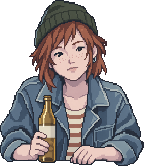
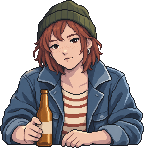
leaning staging (components): Assets.STAGING, Leaners slot above the counter, Portrait.place_on; Lena r6 = neutral identity (sprite ends at the forearm line)

diff --git a/docs/03-build-log.md b/docs/03-build-log.md
@@ -1148,3 +1148,4 @@ conversation is open — and the log rows now carry `queue` and `talking`.
 - **01:55 — v8 verdict 73** (composition 74 ↑ · palette 61 ↓ · pixel 73 · character 71 · ui 73 · Berlin 87). "Make Lena visibly lean on the counter; her arms disappear behind its back edge" — the behind-the-counter layering cannot show forearms ON the laminate. Decision: a LEANING staging — the sprite ends at the forearms' underside (the generator paints only the key colour below the counter line, so `trim` cuts there) and is layered IN FRONT of the counter with the forearm line a few px onto the laminate. Lena r6 generating that way, with warm ivory/amber highlight clusters (the judge: "make the warm pool visible through surface shading rather than a translucent wash"). Also queued (after the fleet releases night.gd): hide the Mate card during a conversation, quieter panel border, HUD inset.
 - **01:58 — backdrop r6 promoted: astra 77** (r5 was 74; composition 81 · palette 73 · pixel 75 · Berlin 87). Stock variety, warm centre zone, OPEN neon, stickers, graffiti, bench, wet pavement, Pfand crate, sticker-covered ice-cream freezer. Remaining notes: the warm pool still too weak ("predominantly steel-blue"), tobacco wall still rows of rectangles, fixtures flat, pavement streaks too busy. Composed v9 (backdrop r6 + counter r7 + Lena r5) judging.
 - **01:59 — v9 (backdrop r6 composed) 70:** composition 72 · palette 61 · pixel 73 · **character 63** · ui 76 · Berlin 88. Lena r5 keeps losing fidelity points ("upright bust cut off by the counter", indistinct eyes) and the overlay wash reads as "washed-out grey" — the judge wants localized amber clusters in the ART, not a translucent pool. Pool alpha cut to 0.08 (edges darken to 0.34). Waiting on Lena r6 (sprite ends at the forearm line, distinct eye clusters, warm highlight clusters) + the leaning staging patch (front layer) once the fleet releases night.gd.
+- **02:02 — leaning staging built:** `Assets.STAGING` (mirrors `stage` in the spec), `SceneLayers.mount(node, in_front)` + a `Leaners` slot above the counter, `Portrait.place_on()` (forearm line `LEAN_ONTO` = 6 px onto the laminate), `Portrait.staging()`. Lena r6 generated with the key colour below the counter line → the snap ends at the forearms (144×148, forearms span the full width in the last rows); promoted as the neutral identity; warm/upset r6 regenerating from it. The Night-scene seat switch waits for the fleet to release `night.gd`.

diff --git a/docs/02-art-pipeline.md b/docs/02-art-pipeline.md
@@ -45,6 +45,7 @@ shop behind. Proportions in base pixels (480×270), read straight off the refere
 | *(2026-09-13)* | | The counter layer hangs `Palette.COUNTER_LIFT` (20 px) above the bottom of the frame: the r6 strip carries 37 rows of wall above its laminate edge, and flush-with-the-bottom hid the countertop under the dialogue panel. Its lowest rows are under the panel anyway. |
 | Counter objects | cup at 30 % x, phone at 50 % x, sitting *on* the edge | cup x≈145, phone x≈240, both just below the edge |
 | Character bust | centred at 52 % x; hair top at ~10 %; shoulders ~30 % wide; cut by the counter at the chest/hip line | centre **x≈250**, hair top **y≈24–30**, ~145 px wide; the portrait's bottom 25–35 px sit *behind* the counter layer |
+| *(2026-09-13, staging)* | | **Two stagings** (`stage` in the spec, `Assets.STAGING`): `behind` = the classic seat, the counter hides the lower body (`Portrait.place_behind`, `PORTRAIT_OVERLAP` 30); `leaning` = the sprite ENDS at the forearms' underside (the generator paints only the key colour below the counter line, so `trim` cuts there) and is layered IN FRONT of the counter (`SceneLayers` slot `Leaners`) with that line `LEAN_ONTO` (6) px onto the laminate — the customer visibly leans on the counter. Five verdicts in a row asked for it; Lena is the first leaner (r6). |
 | *(2026-09-13)* | | **Busts are snapped to 144×174** (the ~145 px above). They were 190×230 until the judge scored the composed frame: "an enlarged portrait behind a narrow ledge" — the head was 36 % of the frame height against Coffee Talk's ~25 %. Same raws, re-snapped with `art.mjs --reuse-raw`; the head is now ~27 % and the bottle hand shows above the counter. |
 | Hanging lamps | three across the top, pooling warm light | in the backdrop, top 15 % |
 | Wall of stuff | eye-level shelves/pictures either side of the head, calmer directly behind the face | backdrop composition rule (§asset-spec) |
